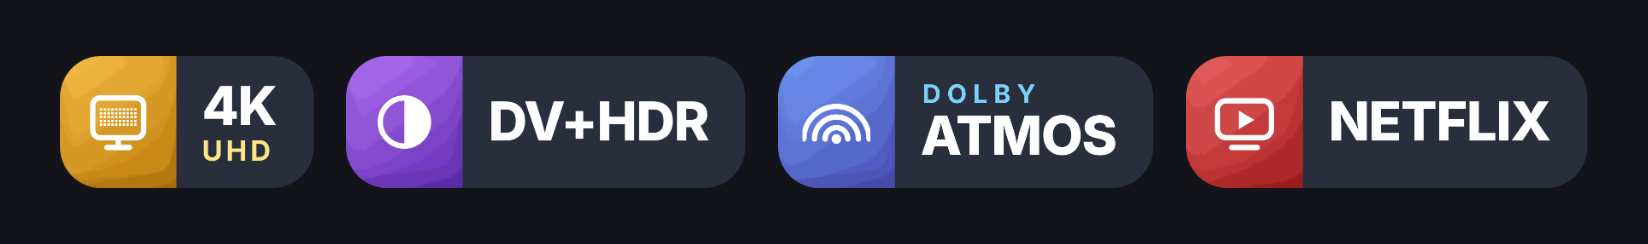
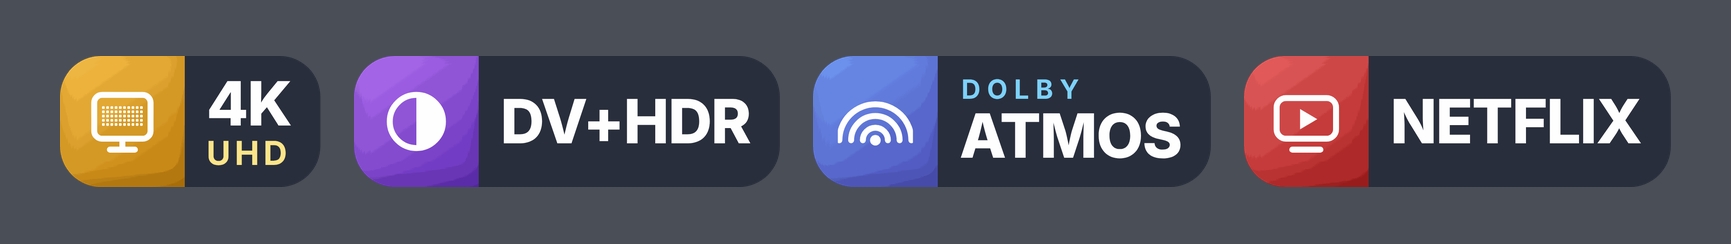
Use one charcoal grey background for all previews (site, gallery, preview sheets)

diff --git a/docs/assets/site.css b/docs/assets/site.css
@@ -101,7 +101,7 @@ nav.stepnav button.on b{border-color:var(--ac);color:var(--ac)}
 .card{background:var(--panel);border:1px solid var(--line);border-radius:10px;padding:14px;text-align:left;font:inherit;color:inherit;cursor:pointer}
 .card.on{border-color:var(--ac);box-shadow:0 0 0 1px var(--ac)}
 .card .t{font-weight:600}.card .d{color:var(--mute);font-size:14px}
-.card .sw{background:var(--stage);border-radius:7px;padding:10px;display:flex;flex-direction:column;gap:6px;align-items:flex-start;margin-bottom:10px}
+.card .sw{background:#4a4e57;border-radius:7px;padding:10px;display:flex;flex-direction:column;gap:6px;align-items:flex-start;margin-bottom:10px}
 .card .sw img{height:26px;max-width:100%}
 .bar{display:flex;gap:8px;flex-wrap:wrap;align-items:center;margin-bottom:12px}
 input[type=text],input[type=search],select,textarea{background:var(--panel);border:1px solid var(--line);border-radius:8px;padding:10px 12px;min-width:0;font:inherit;color:var(--ink)}
@@ -117,7 +117,7 @@ input[type=text],input[type=search],select,textarea{background:var(--panel);bord
 .hint{color:var(--mute);font-size:14px;margin:0 0 12px}
 .grid{display:grid;grid-template-columns:repeat(auto-fill,minmax(150px,1fr));gap:8px}
 .tile{background:var(--panel);border:1px solid var(--line);border-radius:10px;padding:8px;display:flex;flex-direction:column;gap:6px;align-items:center;position:relative;text-align:center;font:inherit;color:inherit;cursor:pointer}
-.tile .im{background:var(--stage);border-radius:6px;width:100%;height:52px;display:grid;place-items:center}
+.tile .im{background:#4a4e57;border-radius:6px;width:100%;height:52px;display:grid;place-items:center}
 .tile img{max-height:34px;max-width:90%}
 .tile .n{font-size:13px;line-height:1.25;color:var(--mute);min-height:2.5em;display:flex;align-items:center}
 .tile.on{border-color:var(--ok);box-shadow:0 0 0 1px var(--ok)}
@@ -129,7 +129,7 @@ input[type=text],input[type=search],select,textarea{background:var(--panel);bord
 .gh .dot{width:10px;height:10px;border-radius:50%}.gh .c{color:var(--mute);font-weight:400;font-size:14px;flex:1}
 .row{display:flex;align-items:center;gap:10px;padding:6px 12px;border-top:1px solid var(--line)}
 .row:first-of-type{border-top:0}
-.row .im{background:var(--stage);border-radius:6px;width:110px;height:38px;display:grid;place-items:center;flex:none;overflow:hidden}
+.row .im{background:#4a4e57;border-radius:6px;width:110px;height:38px;display:grid;place-items:center;flex:none;overflow:hidden}
 .row .im img{max-height:26px;max-width:92%}
 .row .n{flex:1;min-width:0;overflow:hidden;text-overflow:ellipsis;white-space:nowrap}
 .ib{background:none;border:1px solid var(--line);border-radius:8px;width:34px;height:34px;display:grid;place-items:center;color:var(--ink);padding:0;font:inherit;cursor:pointer}
@@ -137,7 +137,7 @@ input[type=text],input[type=search],select,textarea{background:var(--panel);bord
 .sty{width:92px;padding:6px 8px;font-size:14px;flex:none}
 @media(max-width:520px){.row .im{width:84px}.sty{width:76px;padding:6px 4px}.row{gap:6px;padding:6px 8px}}
 .warn{border:1px solid var(--warn);border-radius:10px;padding:10px 14px;margin-bottom:14px;display:flex;gap:10px;align-items:center}
-.pv{background:var(--stage);color:var(--stink);border-radius:12px;padding:4px 16px}
+.pv{background:#4a4e57;color:var(--stink);border-radius:12px;padding:4px 16px}
 .pv .s{padding:12px 0;border-top:1px solid var(--stline)}.pv .s:first-child{border-top:0}
 .pv .s div{font-family:var(--f-m);font-size:12.5px;color:var(--stmute);margin-bottom:7px;overflow-wrap:anywhere}
 .pv .bd{display:flex;gap:5px;flex-wrap:wrap;align-items:center}.pv img{height:24px}

diff --git a/docs/assets/landing.js b/docs/assets/landing.js
@@ -2,7 +2,7 @@ window.LANDING={"f":{"source-uhd-bluray":"source-uhd-bluray.png","source-webrip"
 
 const RAW="https://raw.githubusercontent.com/farizmohd70/FR-Badges/main/",FD=Object.fromEntries(window.STYLES_DATA.map(s=>[s.id,s.folder]));
 const D=window.LANDING;
-const ST=window.STYLES_DATA.map(s=>[s.id,s.name,s.note,s.bg]);const BG=id=>ST.find(s=>s[0]===id)[3]==='light'?'#e9ebf0':'transparent';
+const ST=window.STYLES_DATA.map(s=>[s.id,s.name,s.note,s.bg]);const BG=id=>'#4a4e57';
 const ROWS=[
  [['Night.Harbor.2024.'],['2160p','res-4k'],['.'],['UHD.BluRay','source-uhd-bluray'],['.'],['REMUX','source-remux'],['.'],['DV.HDR10+','dr-dv-hdr10plus'],['.'],['TrueHD.Atmos','acodec-atmos'],['.'],['7.1','ch-7-1'],['.'],['HEVC','codec-hevc'],['-GRP']],
  [['Night.Harbor.2024.'],['1080p','res-1080p'],['.'],['NF','stream-netflix'],['.'],['WEB-DL','source-webdl'],['.'],['DDP5.1','acodec-ddplus'],['.'],['H.264','codec-avc'],['-GRP']],

diff --git a/docs/assets/core.js b/docs/assets/core.js
@@ -60,7 +60,7 @@ P.styleOf=id=>S.over[id]||S.style;
 const cache={};
 P.src=(id,style)=>P.rawUrl(id,style);
 P.img=(id,cls,style)=>`<img class="${cls||''}" alt="${esc(byId[id].n)}" src="${P.src(id,style)}" draggable="false">`;
-P.bgCol=sid=>((STYLES.find(s=>s.id===sid)||{}).bg==='light'?'#e9ebf0':'#0e0f12');P.bgOf=id=>P.bgCol(P.styleOf(id));
+P.bgCol=sid=>'#4a4e57';P.bgOf=id=>P.bgCol(P.styleOf(id));
 P.rawUrl=(id,style)=>RAW+STYLES.find(s=>s.id===(style||P.styleOf(id))).folder+'/'+byId[id].f;
 function esc(s){return String(s).replace(/[&<>"']/g,c=>({'&':'&amp;','<':'&lt;','>':'&gt;','"':'&quot;',"'":'&#39;'}[c]))}
 P.esc=esc;
